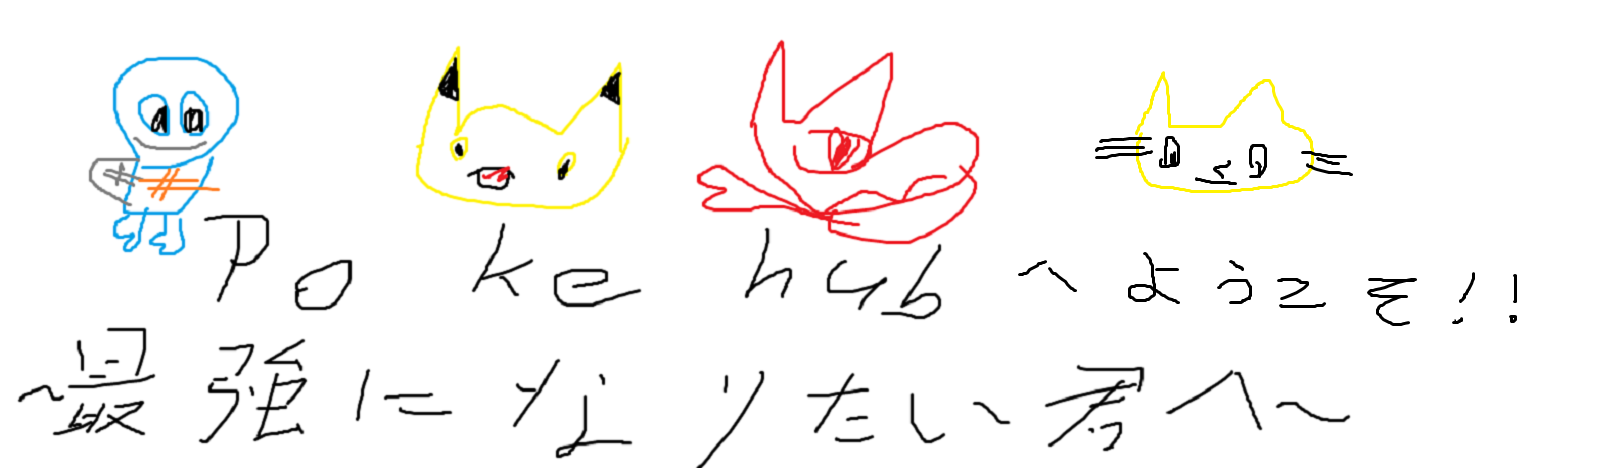
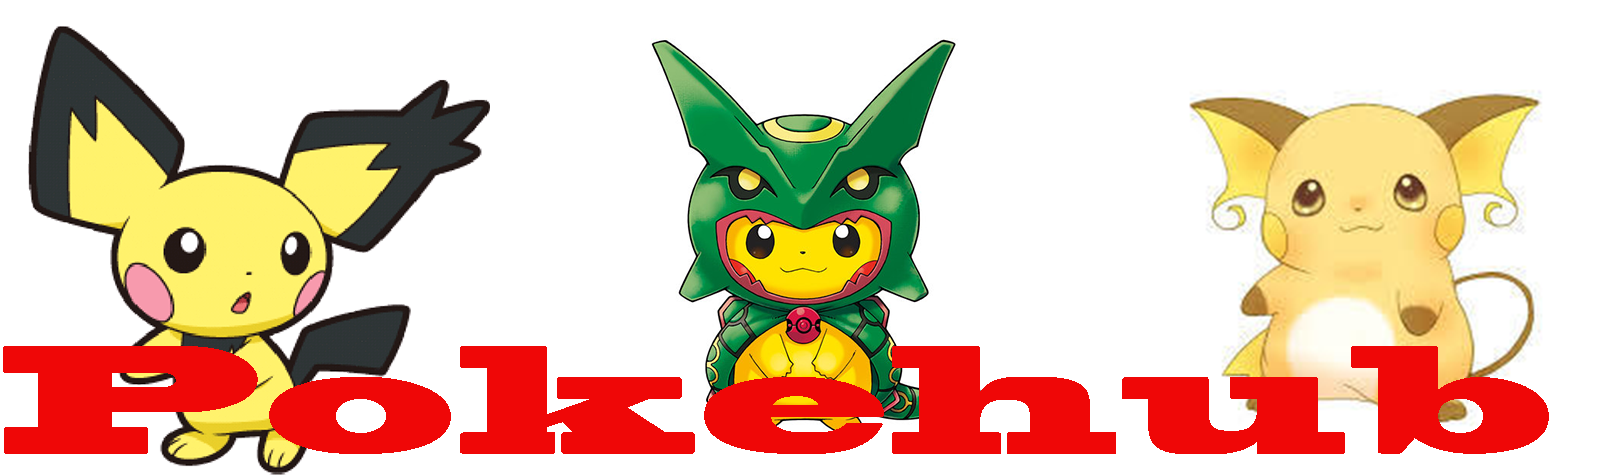
TOP絵変更

diff --git a/app/controllers/userinfos_controller.rb b/app/controllers/userinfos_controller.rb
@@ -6,6 +6,7 @@ skip_before_action :check_logined
   def index
     @userinfos = Userinfo.all
     @pokerais = Pokerai.all
+    @pokebuilds = Pokebuild.all
   end
 
   # GET /userinfos/1
